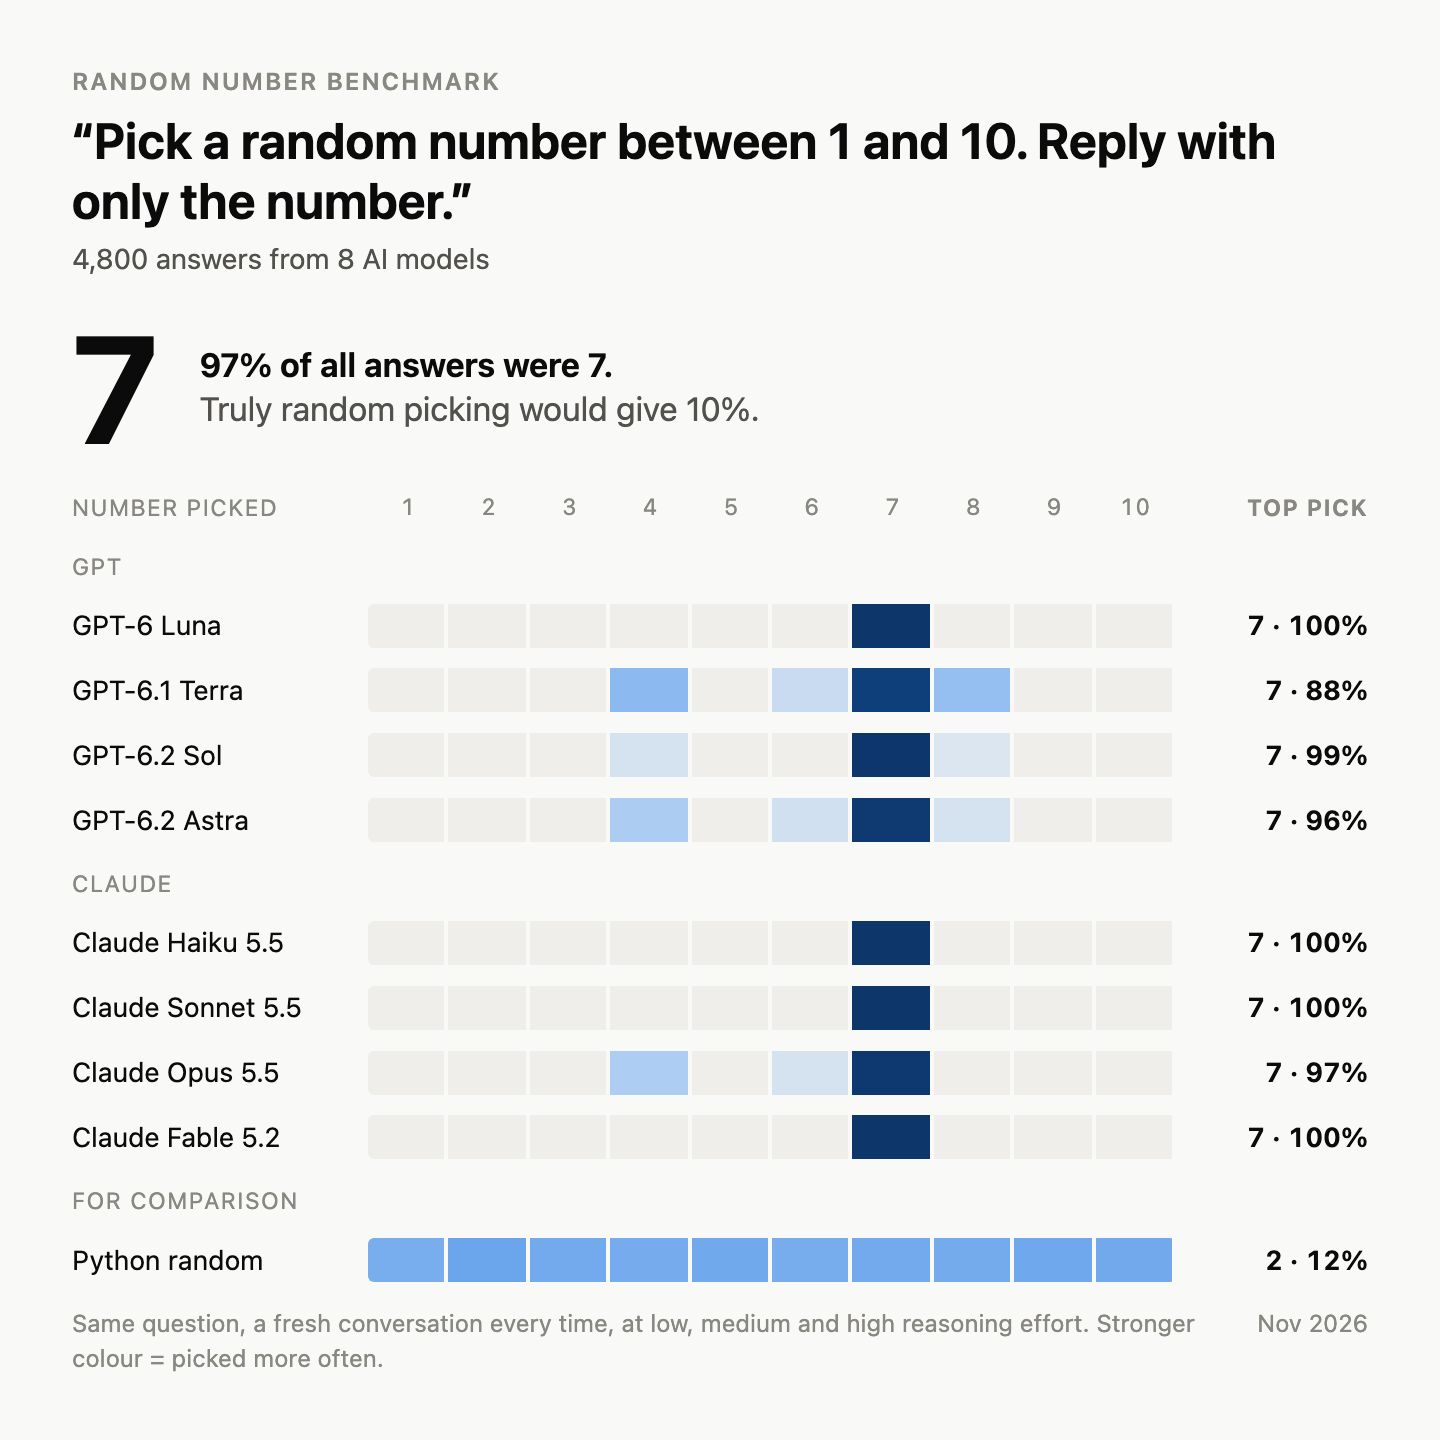
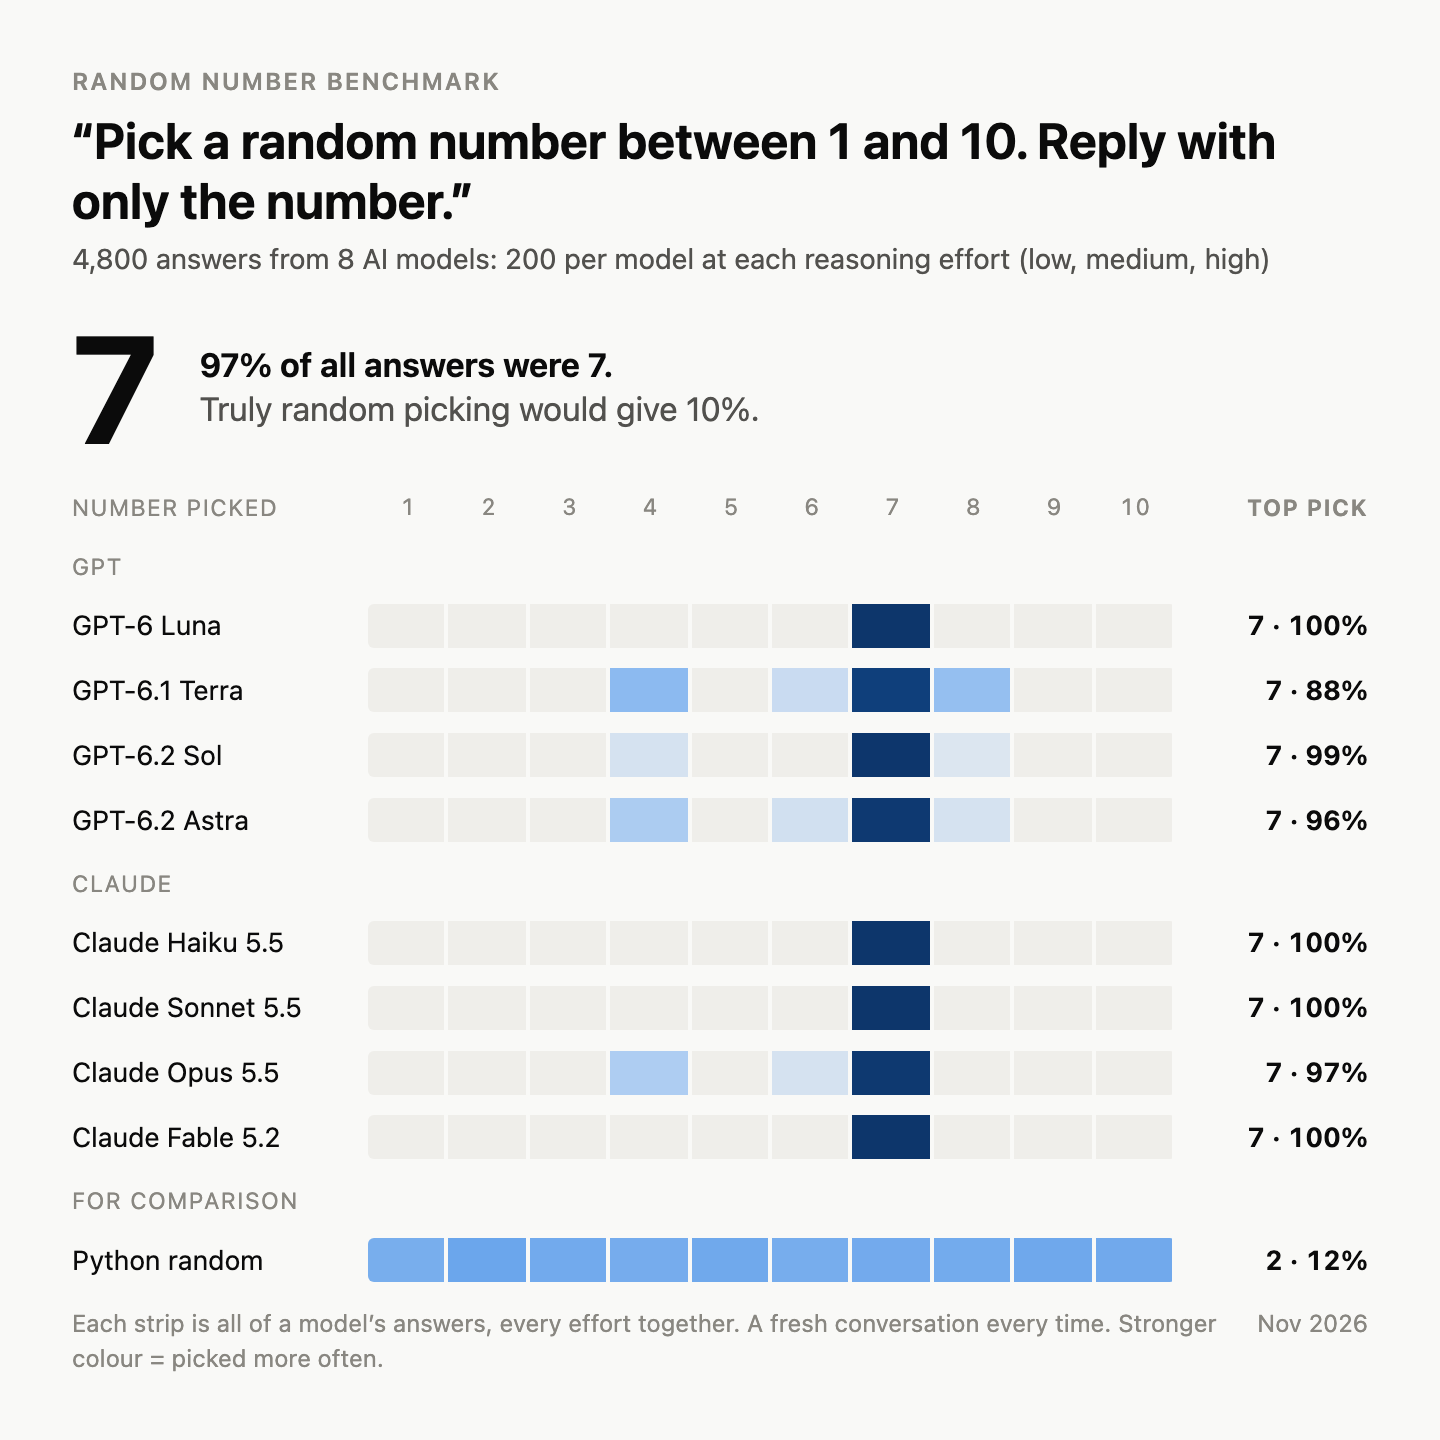
Add rewording chart, correct rewording count, clarify effort on summary card
The README said the rewording check was 1,600 calls; it is 800 (8 models x
2 rewordings x 50, low effort). All 800 answers were 7.
Adds a UI card and figure comparing the three wordings per model, and states
on the summary card that each model has 200 answers at each reasoning effort.

Changed region(s): [[0.0625, 0.9062, 0.625, 0.9375], [0.3438, 0.1562, 0.875, 0.1875], [0.6562, 0.9062, 0.8438, 0.9375]]

diff --git a/ui/index.html b/ui/index.html
@@ -137,7 +137,7 @@
 
   /* distribution table */
   .scroll { overflow-x: auto; }
-  #table { min-width: 940px; }
+  #table, #wtable { min-width: 940px; }
   .row { display: grid; grid-template-columns: 176px 70px minmax(320px, 1fr) 86px 100px 124px 230px;
          column-gap: 16px; align-items: center; min-height: 34px; }
   .row.head { color: var(--muted); font-size: 12px; align-items: end; padding-bottom: 6px;
@@ -244,6 +244,14 @@
       <div class="lg-key"><span class="lg-tick"></span>Spread a truly random picker would score with the same number of answers</div>
     </div>
     <div class="scroll"><div id="table"></div></div>
+  </section>
+
+  <section class="card">
+    <h2>Does the wording of the question matter?</h2>
+    <p class="sub" id="wsub"></p>
+    <div class="prompts" id="wprompts"></div>
+    <div class="qc" id="wsum" role="status"></div>
+    <div class="scroll"><div id="wtable"></div></div>
   </section>
 
   <section class="card">
@@ -376,8 +384,7 @@ function addRow(parent, key, cls, model, effort) {
   refs[key] = { cv, n, top, mean, fill, tick, val };
 }
 
-function buildTable(view) {
-  const t = $('table'); t.textContent = ''; refs = {};
+function headRow(view, col2) {
   const head = el('div', 'row head'), axis = el('div', 'axisl');
   const nb = Math.ceil(view.k / view.bin_size);
   const ticks = view.k <= 12 ? Array.from({ length: view.k }, (_, i) => i + 1)
@@ -387,9 +394,13 @@ function buildTable(view) {
     const pos = view.k > 12 && i === 0 ? 0 : view.k > 12 && i === ticks.length - 1 ? 100 : (Math.floor((v - 1) / view.bin_size) + .5) / nb * 100;
     s.style.left = pos + '%'; axis.append(s);
   });
-  head.append(el('div', null, 'Model'), el('div', null, 'Effort'), axis, el('div', null, 'Answers'),
+  head.append(el('div', null, 'Model'), el('div', null, col2), axis, el('div', null, 'Answers'),
               el('div', null, 'Top pick'), el('div', null, 'Mean ± SD'), el('div', null, 'Spread (1 = fully random)'));
-  t.append(head);
+  return head;
+}
+function buildTable(view) {
+  const t = $('table'); t.textContent = ''; refs = {}; wsig = '';
+  t.append(headRow(view, 'Effort'));
   addRow(t, 'ideal', 'ref', 'Perfectly random', '');
   for (const fam of view.families) {
     addRow(t, 'fam:' + fam.family, 'fam', fam.family + (fam.control ? ', pooled' : ' family, pooled'), '');
@@ -426,6 +437,35 @@ function renderTable(view) {
     fillRow('fam:' + fam.family, fam.pooled, view);
     for (const m of fam.models) for (const r of m.rows) fillRow(m.id + '|' + r.effort, r, view);
   }
+}
+
+/* ---------- rewording check ---------- */
+let wsig = '';
+function renderWording(view) {
+  const fams = view.families.filter(f => !f.control), ids = Object.keys(S.prompts), extra = ids.filter(x => x !== 'main');
+  const lab = id => id === 'main' ? 'main' : 'reword ' + (extra.indexOf(id) + 1);
+  const t = $('wtable');
+  const sigNow = view.k + '|' + fams.map(f => f.models.map(m => m.id + ':' + m.wording.map(w => w.prompt_id).join()).join()).join('|');
+  if (sigNow !== wsig) {
+    wsig = sigNow; t.textContent = '';
+    t.append(headRow(view, 'Prompt'));
+    fams.forEach(f => {
+      const g = el('div', 'row fam'); g.append(el('div', null, f.family + ' family')); t.append(g);
+      f.models.forEach(m => m.wording.forEach((w, i) => addRow(t, 'w:' + m.id + '|' + w.prompt_id, i === 0 ? 'first' : '', i === 0 ? m.label : '', lab(w.prompt_id))));
+    });
+  }
+  let same = 0, total = 0;
+  fams.forEach(f => f.models.forEach(m => {
+    m.wording.forEach(w => fillRow('w:' + m.id + '|' + w.prompt_id, w, view));
+    const main = m.wording.find(w => w.prompt_id === 'main'), others = m.wording.filter(w => w.prompt_id !== 'main' && w.stats.n);
+    if (main && main.stats.n && others.length) { total++; if (others.every(w => w.stats.mode === main.stats.mode)) same++; }
+  }));
+  $('wsub').textContent = 'The same question asked ' + ids.length + ' ways, all at ' + S.samples.para_effort + ' reasoning effort: ' + S.samples.main
+    + ' answers per model for the main prompt and ' + S.samples.para + ' for each rewording. If the wording mattered, the strips of one model would differ.';
+  const pr = $('wprompts'); pr.textContent = '';
+  ids.forEach(id => { const d = el('div', null, lab(id) + ': '); d.append(el('q', null, S.prompts[id].replace('{max}', view.k))); pr.append(d); });
+  $('wsum').textContent = !total ? 'No rewording answers yet.'
+    : (same === total ? '\u2713 ' : '') + 'In ' + same + ' of ' + total + ' models the most picked number is the same for every wording.';
 }
 
 /* ---------- line charts ---------- */
@@ -721,7 +761,9 @@ function renderShare(view) {
   }
   const L = view.llm.stats, models = view.families.filter(f => !f.control).reduce((a, f) => a + f.models.length, 0);
   sh.title.textContent = '\u201c' + S.prompts.main.replace('{max}', view.k) + '\u201d';
-  sh.sub.textContent = L.n ? fmt(L.n) + ' answers from ' + models + ' AI models' + (T.status === 'done' ? '' : ' so far') : 'No answers yet';
+  const effs = []; view.families.forEach(f => { if (!f.control) f.models.forEach(m => m.rows.forEach(r => { if (!effs.includes(r.effort)) effs.push(r.effort); })); });
+  sh.sub.textContent = !L.n ? 'No answers yet' : fmt(L.n) + ' answers from ' + models + ' AI models'
+    + (T.status === 'done' ? ': ' + S.samples.main + ' per model at each reasoning effort (' + effs.join(', ') + ')' : ' so far');
   sh.num.textContent = L.n ? L.mode : '?';
   sh.ht.textContent = '';
   if (L.n) sh.ht.append(el('b', null, pct(L.mode_share) + ' of all answers were ' + L.mode + '.'), el('br'),
@@ -732,7 +774,7 @@ function renderShare(view) {
     drawStrip(r.cv);
     r.top.textContent = s.n ? s.mode + ' \u00b7 ' + pct(s.mode_share) : '';
   });
-  sh.foot.textContent = 'Same question, a fresh conversation every time, at low, medium and high reasoning effort. Stronger colour = picked more often.';
+  sh.foot.textContent = 'Each strip is all of a model\u2019s answers, every effort together. A fresh conversation every time. Stronger colour = picked more often.';
 }
 
 /* ---------- family comparison ---------- */
@@ -862,7 +904,7 @@ function renderCharts(force) {
   if (hex.length === 6) emptyRGB = [0, 2, 4].map(i => parseInt(hex.slice(i, i + 2), 16));
   $('lgramp').style.background = 'linear-gradient(90deg,' + Array.from({ length: 21 }, (_, i) => heat(Math.pow(Math.max(i, 0.4) / 20, 2))).join(',') + ')';
   const view = S.views[String(range)];
-  renderRun(view); renderTable(view); renderFamLines(view); renderEffort(view); renderTiming(view); renderMatrix(view); renderShare(view);
+  renderRun(view); renderTable(view); renderWording(view); renderFamLines(view); renderEffort(view); renderTiming(view); renderMatrix(view); renderShare(view);
 }
 
 function renderRanges() {

diff --git a/server.py b/server.py
@@ -597,8 +597,15 @@ class Bench:
                         for v, n in c.counts.items():
                             m_counts[v] = m_counts.get(v, 0) + n
                             fam_counts[v] = fam_counts.get(v, 0) + n
+                    # the same question in each wording, all at the rewording-check effort
+                    wording = []
+                    for c in self.cells:
+                        if c.model == m["id"] and c.k == k and not c.control and c.effort == self.cfg.get("paraphrase_effort"):
+                            w = self._row(c.counts, k, c.done, c.target, c.invalid, c.disabled)
+                            w["prompt_id"] = c.prompt_id
+                            wording.append(w)
                     models.append({"id": m["id"], "label": m.get("label", m["id"]), "rows": rows,
-                                   "pooled": self._row(m_counts, k)})
+                                   "pooled": self._row(m_counts, k), "wording": wording})
                     pooled_by_model.append(m_counts)
                     model_meta.append((m.get("label", m["id"]), fam, bool(m.get("control"))))
                 families.append({"family": fam, "control": all(c for _, f, c in model_meta if f == fam),

diff --git a/README.md b/README.md
@@ -25,7 +25,7 @@ Results below are for the 1–10 test only. This README is updated as each test 
 - **Six of the ten numbers were never picked.** Not once in 4,800 answers did a model say 1, 2, 3, 5, 9 or 10. Everything that was not a 7 was a 4 (74 times), an 8 (34) or a 6 (14).
 - **Both families converge on the same number.** GPT models answered 7 in 95.8% of calls, Claude models in 99.1%. Models from the same family are no closer to each other than models from different families (exact permutation test, p = 0.26), so there is no family signature here: there is one shared favourite.
 - **17 of the 24 model × effort combinations answered 7 all 200 times.**
-- **Rewording the question changed nothing.** Two paraphrased prompts, 1,600 calls: 1,600 sevens.
+- **Rewording the question changed nothing.** Two paraphrased prompts, 800 calls at low effort: 800 sevens.
 - **Departures from 7 come almost entirely from reasoning.** When a model produced reasoning tokens, 8.2% of answers were not 7; when it did not, 0.3%. The saved reasoning shows why: *"I'll just go with 4 and avoid the obvious 7."* The models know 7 is the cliché, and avoiding it sends them to the same few neighbours.
 - **More reasoning effort helps a little, in some models.** GPT-6.1 Terra went from 100% sevens at low effort to 78% at high. Claude Opus 5.5 and GPT-6.2 Astra only moved at high effort (90% and 87%). The other five stayed at 99–100% sevens at every effort.
 - **The control behaves.** Python's `random` and `secrets` modules, run through the same pipeline, spread evenly over all ten numbers (each between 8.8% and 11.6% of 1,200 draws).
@@ -46,6 +46,10 @@ Shares are over the 600 main-prompt answers per model; costs include the 100 rew
 ### Every model at every effort
 
 ![Answer distribution per model and effort](docs/figures/distributions-1-10.png)
+
+### Does the wording matter?
+
+![Rewording check](docs/figures/wording-1-10.png)
 
 ### Does more reasoning effort make the picks more random?
 
